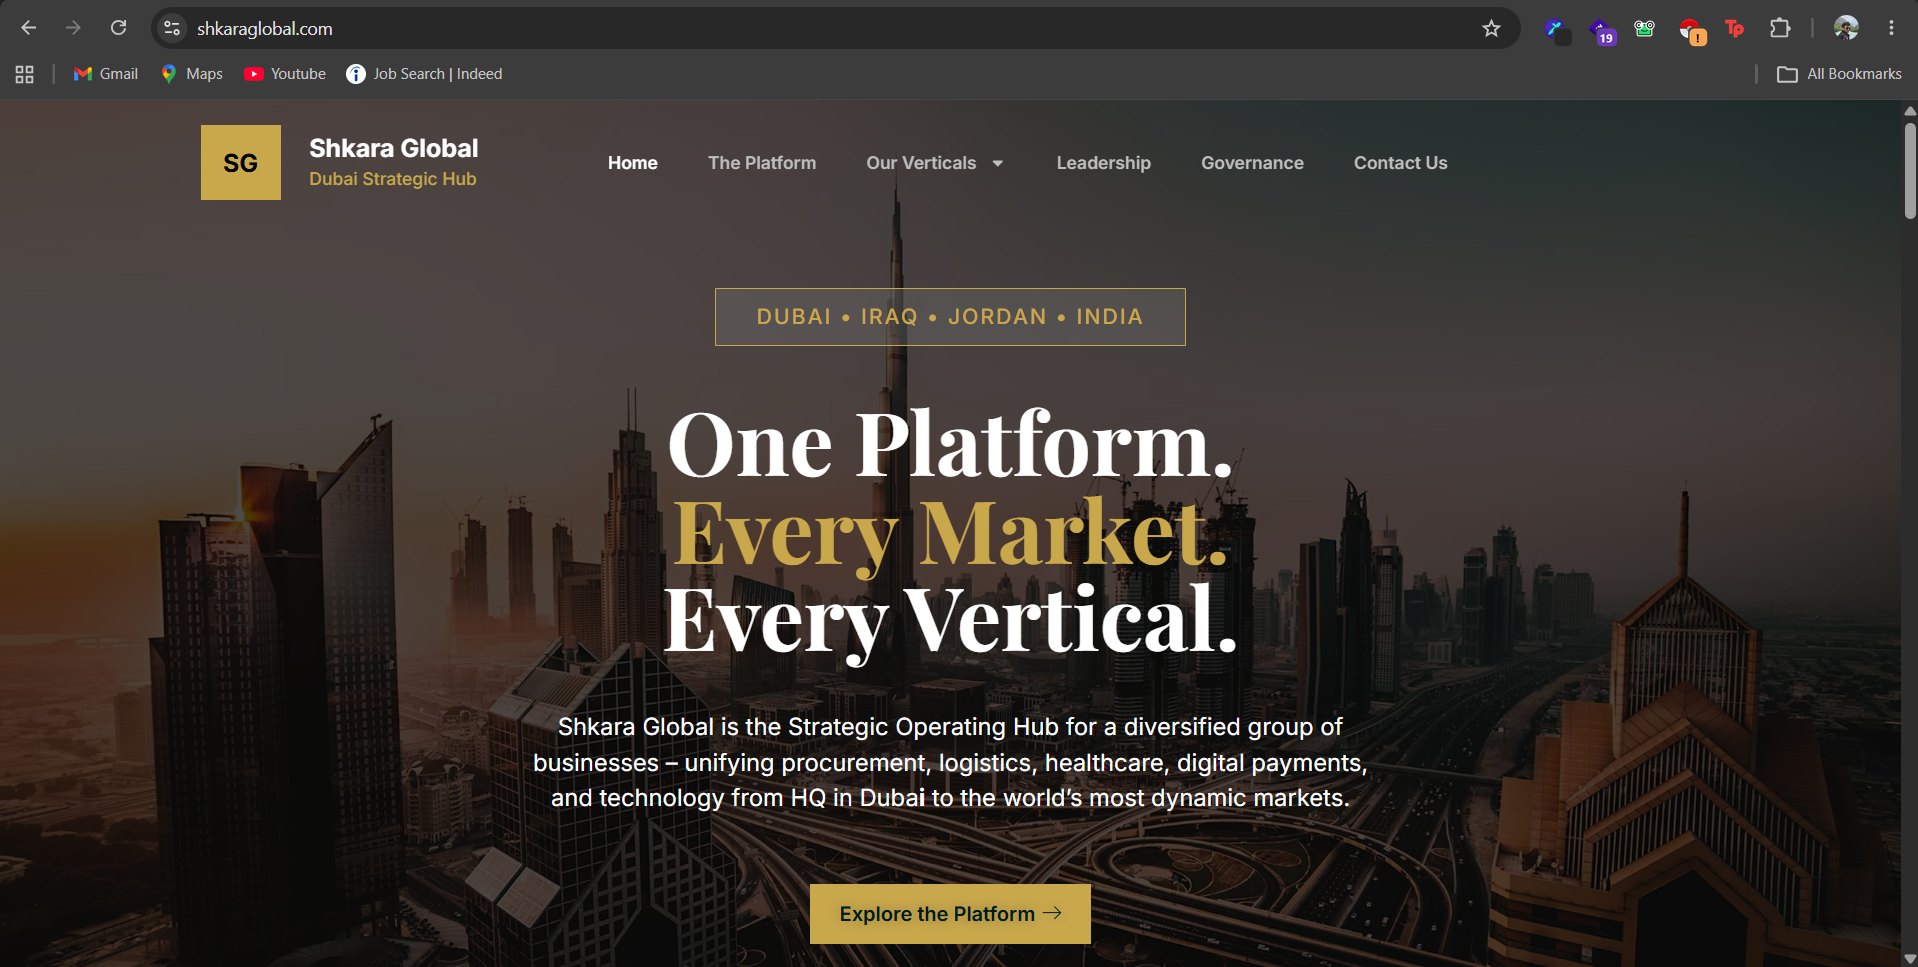
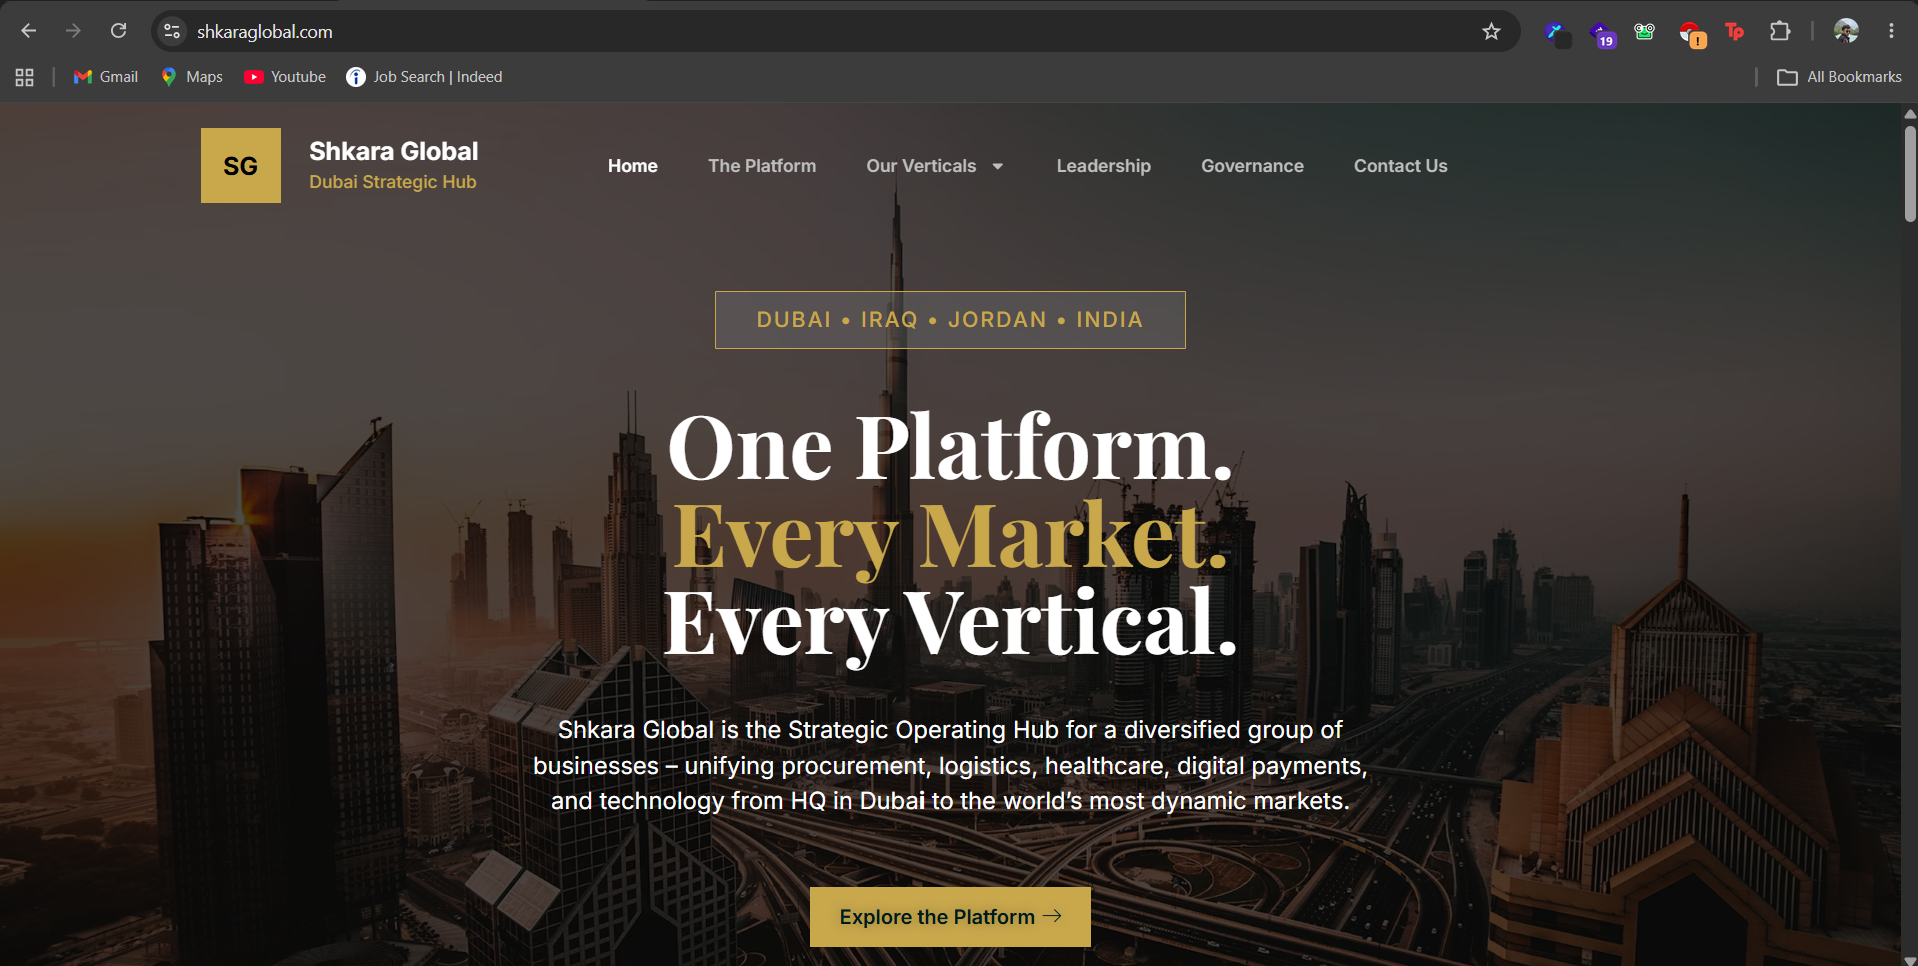
projects updated

diff --git a/index.html b/index.html
@@ -857,12 +857,12 @@
                         and digital marketing campaigns.
                     </h3>
                     <div class="content_main">
-                        <div class="content_main1">
+                        <div class="content_main1">      
                             <div class="fade_up">
-                                <a href="https://www.fluxxit.net/">
+                                <a href="https://shkaraglobal.com/">
                                     <div class="content_portfolio">
                                         <div class="content-overlay"></div>
-                                        <img class="content-image" src="./assets/images/portfolio11.png"
+                                        <img class="content-image" src="./assets/images/portfolio17.png"
                                             alt="content_img">
                                         <div class="content-details fadeIn-bottom">
                                             <h3 class="content-title">Portfolio Website</h3>
@@ -870,23 +870,23 @@
                                         </div>
                                     </div>
                                 </a>
-                                <h4 class="project_name font_w_font_s">Fluxx IT</h4>
+                                <h4 class="project_name font_w_font_s">Shkara Global - UAE</h4>
                                 <p class="project_name_sub font_w_font_s1">Wordpress Website</p>
                             </div>
                             <div class="fade_up">
-                                <a href="https://nativebookpublishers.com/">
+                                <a href="https://primeglobal.pk/">
                                     <div class="content_portfolio">
                                         <div class="content-overlay"></div>
-                                        <img class="content-image" src="./assets/images/portfolio12.png"
+                                        <img class="content-image" src="./assets/images/portfolio19.png"
                                             alt="content_img">
                                         <div class="content-details fadeIn-bottom">
-                                            <h3 class="content-title">Books Website</h3>
-                                            <p class="content-text">PHP Website</p>
+                                            <h3 class="content-title">Portfolio Website</h3>
+                                            <p class="content-text">WordPress</p>
                                         </div>
                                     </div>
                                 </a>
-                                <h4 class="project_name font_w_font_s">Native Book Publishers</h4>
-                                <p class="project_name_sub font_w_font_s1">PHP Website</p>
+                                <h4 class="project_name font_w_font_s">Prime Global - Pakistan</h4>
+                                <p class="project_name_sub font_w_font_s1">WordPress</p>
                             </div>
                             <div class="fade_up">
                                 <a href="https://datathlete.ai/">
@@ -900,40 +900,115 @@
                                         </div>
                                     </div>
                                 </a>
-                                <h4 class="project_name font_w_font_s">Personal Portfolio</h4>
+                                <h4 class="project_name font_w_font_s">Personal Portfolio - USA</h4>
+                                <p class="project_name_sub font_w_font_s1">Wordpress Website</p>
+                            </div>
+                            <div class="fade_up">
+                                <a href="https://woodpacker.shop/">
+                                    <div class="content_portfolio">
+                                        <div class="content-overlay"></div>
+                                        <img class="content-image" src="./assets/images/portfolio21.png"
+                                            alt="content_img">
+                                        <div class="content-details fadeIn-bottom">
+                                            <h3 class="content-title">Ecommerce Store</h3>
+                                            <p class="content-text">Woocommerce (Wordpress)</p>
+                                        </div>
+                                    </div>
+                                </a>
+                                <h4 class="project_name font_w_font_s">Woodpacker - Pakistan</h4>
+                                <p class="project_name_sub font_w_font_s1">Woocommerce Website</p>
+                            </div>
+                            <div class="fade_up">
+                                <a href="https://sullivansac.com/">
+                                    <div class="content_portfolio">
+                                        <div class="content-overlay"></div>
+                                        <img class="content-image" src="./assets/images/portfolio23.png"
+                                            alt="content_img">
+                                        <div class="content-details fadeIn-bottom">
+                                            <h3 class="content-title">Company Portfolio</h3>
+                                            <p class="content-text">Wordpress Website</p>
+                                        </div>
+                                    </div>
+                                </a>
+                                <h4 class="project_name font_w_font_s">Sullivans AC - South Africa</h4>
+                                <p class="project_name_sub font_w_font_s1">Wordpress Website</p>
+                            </div>
+                            <div class="fade_up">
+                                <a href="https://wearinlaw.shop/">
+                                    <div class="content_portfolio">
+                                        <div class="content-overlay"></div>
+                                        <img class="content-image" src="./assets/images/portfolio1.png"
+                                            alt="content_img">
+                                        <div class="content-details fadeIn-bottom">
+                                            <h3 class="content-title">Ecommerce Store</h3>
+                                            <p class="content-text">Wordpress (Woocommerce)</p>
+                                        </div>
+                                    </div>
+                                </a>
+                                <h4 class="project_name font_w_font_s">WearInLaw - Pakistan</h4>
+                                <p class="project_name_sub font_w_font_s1">Wordpress Woocommerce</p>
+                            </div>
+                            <div class="fade_up">
+                                <a href="https://hubcom.co/">
+                                    <div class="content_portfolio">
+                                        <div class="content-overlay"></div>
+                                        <img class="content-image" src="./assets/images/portfolio25.png"
+                                            alt="content_img">
+                                        <div class="content-details fadeIn-bottom">
+                                            <h3 class="content-title">Company Portfolio</h3>
+                                            <p class="content-text">WordPress Website</p>
+                                        </div>
+                                    </div>
+                                </a>
+                                <h4 class="project_name font_w_font_s">Hubcom - USA</h4>
+                                <p class="project_name_sub font_w_font_s1">WordPress Website</p>
+                            </div>
+                            <div class="fade_up">
+                                <a href="https://www.beachway.co.za/">
+                                    <div class="content_portfolio">
+                                        <div class="content-overlay"></div>
+                                        <img class="content-image" src="./assets/images/portfolio26.png"
+                                            alt="content_img">
+                                        <div class="content-details fadeIn-bottom">
+                                            <h3 class="content-title">Company Portfolio</h3>
+                                            <p class="content-text">Wordpress Website</p>
+                                        </div>
+                                    </div>
+                                </a>
+                                <h4 class="project_name font_w_font_s">Beachway Hotel - South Africa</h4>
                                 <p class="project_name_sub font_w_font_s1">Wordpress Website</p>
                             </div>
                         </div>
                         <div class="content_main2">
                             <div class="fade_up">
-                                <a href="http://islamicheck-test.azurewebsites.net/">
+                                <a href="https://adventuresinunspoiledspain.com/">
                                     <div class="content_portfolio">
                                         <div class="content-overlay"></div>
-                                        <img class="content-image" src="./assets/images/portfolio14.png"
+                                        <img class="content-image" src="./assets/images/portfolio18.png"
                                             alt="content_img">
                                         <div class="content-details fadeIn-bottom">
-                                            <h3 class="content-title">Islamicheck</h3>
-                                            <p class="content-text">Multi Vendor Ecommerce Store</p>
+                                            <h3 class="content-title">Adventures In Unspoiled Spain</h3>
+                                            <p class="content-text">Travel Agency & Complete Booking System</p>
                                         </div>
                                     </div>
                                 </a>
-                                <h4 class="project_name font_w_font_s">Islamicheck</h4>
-                                <p class="project_name_sub font_w_font_s1">Multi Vendor Ecommerce Store</p>
+                                <h4 class="project_name font_w_font_s">Adventures In Unspoiled Spain</h4>
+                                <p class="project_name_sub font_w_font_s1">Complete Booking System</p>
                             </div>
                             <div class="fade_up">
-                                <a href="https://syedakhtartrading.com/">
+                                <a href="https://epoxee.com/">
                                     <div class="content_portfolio pop-up1">
                                         <div class="content-overlay"></div>
-                                        <img class="content-image" src="./assets/images/portfolio15.png"
+                                        <img class="content-image" src="./assets/images/portfolio20.png"
                                             alt="content_img">
                                         <div class="content-details fadeIn-bottom">
-                                            <h3 class="content-title">Ecommerce Store & POS System</h3>
-                                            <p class="content-text">PHP Website</p>
+                                            <h3 class="content-title">Portfolio Site</h3>
+                                            <p class="content-text">WordPress Website</p>
                                         </div>
                                     </div>
                                 </a>
-                                <h4 class="project_name font_w_font_s">Ecommerce Store & POS System</h4>
-                                <p class="project_name_sub font_w_font_s1">PHP Website</p>
+                                <h4 class="project_name font_w_font_s">Epoxee - USA</h4>
+                                <p class="project_name_sub font_w_font_s1">WordPress Website</p>
                             </div>
                             <div class="fade_up">
                                 <a href="https://murshidrentacartravel.com/">
@@ -942,12 +1017,87 @@
                                         <img class="content-image" src="./assets/images/portfolio16.png"
                                             alt="content_img">
                                         <div class="content-details fadeIn-bottom">
-                                            <h3 class="content-title">Murshid Rent A Car</h3>
+                                            <h3 class="content-title">Car rental service</h3>
                                             <p class="content-text">Wordpress Website</p>
                                         </div>
                                     </div>
                                 </a>
-                                <h4 class="project_name font_w_font_s">Murshid Rent A Car</h4>
+                                <h4 class="project_name font_w_font_s">Murshid Rent A Car  - Pakistan</h4>
+                                <p class="project_name_sub font_w_font_s1">Wordpress Website</p>
+                            </div>
+                            <div class="fade_up">
+                                <a href="https://itexplosers.com/">
+                                    <div class="content_portfolio pop-up1">
+                                        <div class="content-overlay"></div>
+                                        <img class="content-image" src="./assets/images/portfolio22.png"
+                                            alt="content_img">
+                                        <div class="content-details fadeIn-bottom">
+                                            <h3 class="content-title">Portfolio</h3>
+                                            <p class="content-text">Wordpress Website</p>
+                                        </div>
+                                    </div>
+                                </a>
+                                <h4 class="project_name font_w_font_s">IT Explosers - UK</h4>
+                                <p class="project_name_sub font_w_font_s1">Wordpress Website</p>
+                            </div>
+                            <div class="fade_up">
+                                <a href="https://development.itts.co.za/">
+                                    <div class="content_portfolio">
+                                        <div class="content-overlay"></div>
+                                        <img class="content-image" src="./assets/images/portfolio24.png"
+                                            alt="content_img">
+                                        <div class="content-details fadeIn-bottom">
+                                            <h3 class="content-title">Company Portfolio</h3>
+                                            <p class="content-text">Wordpress Website</p>
+                                        </div>
+                                    </div>
+                                </a>
+                                <h4 class="project_name font_w_font_s">ITTS Internet - South Africa</h4>
+                                <p class="project_name_sub font_w_font_s1">Wordpress Website</p>
+                            </div>
+                            <div class="fade_up">
+                                <a href="https://www.fluxxit.net/">
+                                    <div class="content_portfolio">
+                                        <div class="content-overlay"></div>
+                                        <img class="content-image" src="./assets/images/portfolio11.png"
+                                            alt="content_img">
+                                        <div class="content-details fadeIn-bottom">
+                                            <h3 class="content-title">FluxxIT - Belgium</h3>
+                                            <p class="content-text">Portfolio</p>
+                                        </div>
+                                    </div>
+                                </a>
+                                <h4 class="project_name font_w_font_s">FluxxIT - Belgium</h4>
+                                <p class="project_name_sub font_w_font_s1">Wordpress Website</p>
+                            </div>
+                            <div class="fade_up">
+                                <a href="https://nativebookpublishers.com/">
+                                    <div class="content_portfolio pop-up1">
+                                        <div class="content-overlay"></div>
+                                        <img class="content-image" src="./assets/images/portfolio12.png"
+                                            alt="content_img">
+                                        <div class="content-details fadeIn-bottom">
+                                            <h3 class="content-title">Company Portfolio</h3>
+                                            <p class="content-text">WordPress Website</p>
+                                        </div>
+                                    </div>
+                                </a>
+                                <h4 class="project_name font_w_font_s">Native Book Publishers - USA</h4>
+                                <p class="project_name_sub font_w_font_s1">WordPress Website</p>
+                            </div>
+                            <div class="fade_up">
+                                <a href="https://easytect.de/">
+                                    <div class="content_portfolio">
+                                        <div class="content-overlay"></div>
+                                        <img class="content-image" src="./assets/images/portfolio27.png"
+                                            alt="content_img">
+                                        <div class="content-details fadeIn-bottom">
+                                            <h3 class="content-title">Company Portfolio</h3>
+                                            <p class="content-text">Wordpress Website</p>
+                                        </div>
+                                    </div>
+                                </a>
+                                <h4 class="project_name font_w_font_s">Easytect UG - Germany</h4>
                                 <p class="project_name_sub font_w_font_s1">Wordpress Website</p>
                             </div>
                         </div>